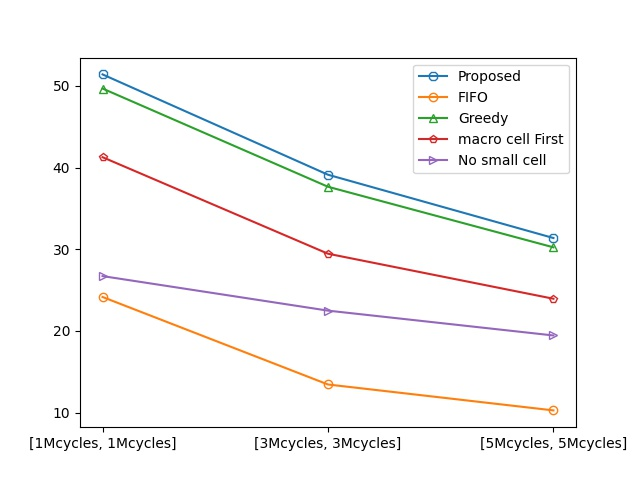
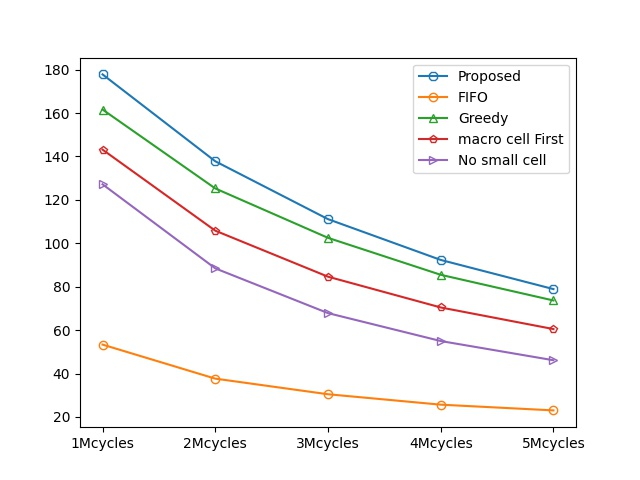
Add multiple small cell

diff --git a/Auction.py b/Auction.py
@@ -7,13 +7,18 @@ def Generate_task():
     macro_cell_lst = []
     small_cell_lst = []
     total = []
-    for _ in range(30):
-        a = macro_cell()
-        b = small_cell()
+    for _ in range(MACRO_CELL_USER):
+        a = macro_cell_user()
         macro_cell_lst.append(a)
-        small_cell_lst.append(b)
         total.append(a)
-        total.append(b)
+        
+    for i in range(SMALL_NUM):
+        small_cell_user_lst = []
+        for _ in range(SMALL_CELL_USER):
+            b = small_cell_user(i)
+            small_cell_user_lst.append(b)
+            total.append(b)
+        small_cell_lst.append(small_cell_user_lst)
     return macro_cell_lst, small_cell_lst, total
 
 
@@ -23,11 +28,14 @@ def Proposed(macro_cell_lst, small_cell_lst, total, macro_cellt, small_cellt):
     total = total.copy()
     winning_macro_cell = []
     winning_small_cell = []
-    for i in range(len(small_cell_lst)):
-        b = (len(winning_small_cell) + 1) * small_cellt + time_to_small_cell
-        if b <= small_cell_lst[i].time:
-            winning_small_cell.append(small_cell_lst[i])
-            total.remove(small_cell_lst[i])
+    for lst in small_cell_lst:
+        cell_count = 0
+        for i in range(len(lst)):
+            b = (cell_count + 1) * small_cellt + time_to_small_cell
+            if b <= lst[i].time:
+                winning_small_cell.append(lst[i])
+                total.remove(lst[i])
+                cell_count += 1
     for i in range(len(total)):
         a = (len(winning_macro_cell) + 1) * macro_cellt + time_to_macro_cell
         if a <= total[i].time:
@@ -38,41 +46,48 @@ def Proposed(macro_cell_lst, small_cell_lst, total, macro_cellt, small_cellt):
 def Greedy(macro_cell_lst, small_cell_lst, total, macro_cellt, small_cellt):
     winning_macro_cell = []
     winning_small_cell = []
+    cell_count = []
+    for i in range(SMALL_NUM):
+        cell_count.append(0)
     macro_cell_lst = macro_cell_lst.copy()
     small_cell_lst = small_cell_lst.copy()
     total = total.copy()
     for i in range(len(total)):
         a = (len(winning_macro_cell) + 1) * macro_cellt + time_to_macro_cell
-        b = (len(winning_small_cell) + 1) * small_cellt + time_to_small_cell
         if total[i].is_macro_cell == 0:
+            b = (cell_count[total[i].cell_num] + 1) * small_cellt + time_to_small_cell
             if a < b and a <= total[i].time:
                 winning_macro_cell.append(total[i])
             elif a >= b and b <= total[i].time:
                 winning_small_cell.append(total[i])
+                cell_count[total[i].cell_num] += 1
         else:
             if a <= total[i].time:
                 winning_macro_cell.append(total[i])
     return winning_macro_cell, winning_small_cell
 
 
-def FIFO(macro_cell_lst, small_cell_lst, total, macro_cellt, small_cellt):
+def Fifo(macro_cell_lst, small_cell_lst, total, macro_cellt, small_cellt):
     winning_macro_cell = []
     winning_small_cell = []
     macro_cell_lst = macro_cell_lst.copy()
     small_cell_lst = small_cell_lst.copy()
     total = total.copy()
-    for i in range(len(small_cell_lst)):
-        b = (len(winning_small_cell) + 1) * small_cellt + time_to_small_cell
-        flag_current = False
-        if b <= small_cell_lst[i].time:
-            flag_current = True
-        flag_lst = True
-        for task in winning_small_cell:
-            if task.time < b:
-                flag_lst = False
-        if flag_current and flag_lst:
-            winning_small_cell.append(small_cell_lst[i])
-            total.remove(small_cell_lst[i])
+    for lst in small_cell_lst:
+        count = 0
+        for i in range(len(lst)):
+            b = (count + 1) * small_cellt + time_to_small_cell
+            flag_current = False
+            if b <= lst[i].time:
+                flag_current = True
+            flag_lst = True
+            for task in winning_small_cell:
+                if task.time < b:
+                    flag_lst = False
+            if flag_current and flag_lst:
+                winning_small_cell.append(lst[i])
+                total.remove(lst[i])
+                count += 1
     for i in range(len(total)):
         a = (len(winning_macro_cell) + 1) * macro_cellt + time_to_macro_cell
         flag_current = False
@@ -98,10 +113,13 @@ def macro_cell_first(macro_cell_lst, small_cell_lst, total, macro_cellt, small_c
         if b <= macro_cell_lst[i].time:
             winning_macro_cell.append(macro_cell_lst[i])
             total.remove(macro_cell_lst[i])
-    for i in range(len(small_cell_lst)):
-        a = (len(winning_small_cell) + 1) * small_cellt + time_to_small_cell
-        if a <= small_cell_lst[i].time:
-            winning_small_cell.append(small_cell_lst[i])
+    for lst in small_cell_lst:
+        count = 0
+        for i in range(len(lst)):
+            a = (count + 1) * small_cellt + time_to_small_cell
+            if a <= lst[i].time:
+                winning_small_cell.append(lst[i])
+                count += 1
     return winning_macro_cell, winning_small_cell
 
 
@@ -109,8 +127,8 @@ def No_small_cell(macro_cell_lst, small_cell_lst, total, macro_cellt, small_cell
     macro_cell_lst = macro_cell_lst.copy()
     total = total.copy()
     winning_macro_cell = []
-    for i in range(len(macro_cell_lst)):
+    for i in range(len(total)):
         b = (len(winning_macro_cell) + 1) * macro_cellt + time_to_macro_cell
-        if b <= macro_cell_lst[i].time:
-            winning_macro_cell.append(macro_cell_lst[i])
+        if b <= total[i].time:
+            winning_macro_cell.append(total[i])
     return winning_macro_cell

diff --git a/main.py b/main.py
@@ -5,9 +5,14 @@ from Auction import *
 import matplotlib.pyplot as plt
 
 DEBUG = 0
+PROPOSED = 1
+FIFO = 1
+GREEDY = 1
+MACRO_FIRST = 1
+NO_SMALL = 1
 if __name__ == "__main__":
-    parameters = [[1e6, 1e6], [3e6, 3e6], [5e6, 5e6]]
-    parameter = ["[1Mcycles, 1Mcycles]", "[3Mcycles, 3Mcycles]", "[5Mcycles, 5Mcycles]"]
+    parameters = [[1e6, 1e6], [2e6, 2e6], [3e6, 3e6], [4e6, 4e6], [5e6, 5e6]]
+    parameter = ["1Mcycles", "2Mcycles", "3Mcycles", "4Mcycles", "5Mcycles"]
     tasks_greedy = []
     tasks_proposed = []
     tasks_FIFO = []
@@ -21,56 +26,65 @@ if __name__ == "__main__":
         sum_no_small_cell = 0
         for j in range(ITER):
             macro_cell_lst, small_cell_lst, total = Generate_task()
-            winning_FIFO_macro_cell, winning_FIFO_small_cell = FIFO(
-                macro_cell_lst,
-                small_cell_lst,
-                total,
-                par[0] / macro_CPU_freq,
-                par[1] / small_CPU_freq,
-            )
+            if FIFO:
+                winning_FIFO_macro_cell, winning_FIFO_small_cell = Fifo(
+                    macro_cell_lst,
+                    small_cell_lst,
+                    total,
+                    par[0] / macro_CPU_freq,
+                    par[1] / small_CPU_freq,
+                )
+                sum_FIFO += len(winning_FIFO_macro_cell)
+                sum_FIFO += len(winning_FIFO_small_cell)
             macro_cell_lst.sort(reverse=True)
-            small_cell_lst.sort(reverse=True)
+            for lst in small_cell_lst:
+                lst.sort(reverse=True)
             total.sort(reverse=True)
-            (
-                winning_macro_cell_first_macro_cell,
-                winning_macro_cell_first_small_cell,
-            ) = macro_cell_first(
-                macro_cell_lst,
-                small_cell_lst,
-                total,
-                par[0] / macro_CPU_freq,
-                par[1] / small_CPU_freq,
-            )
-            winning_greedy_macro_cell, winning_greedy_small_cell = Greedy(
-                macro_cell_lst,
-                small_cell_lst,
-                total,
-                par[0] / macro_CPU_freq,
-                par[1] / small_CPU_freq,
-            )
-            winning_No_small_cell_macro_cell = No_small_cell(
-                macro_cell_lst,
-                small_cell_lst,
-                total,
-                par[0] / macro_CPU_freq,
-                par[1] / small_CPU_freq,
-            )
-            winning_macro_cell, winning_small_cell = Proposed(
-                macro_cell_lst,
-                small_cell_lst,
-                total,
-                par[0] / macro_CPU_freq,
-                par[1] / small_CPU_freq,
-            )
-            sum_FIFO += len(winning_FIFO_macro_cell)
-            sum_FIFO += len(winning_FIFO_small_cell)
-            sum_greedy += len(winning_greedy_macro_cell)
-            sum_greedy += len(winning_greedy_small_cell)
-            sum_proposed += len(winning_macro_cell)
-            sum_proposed += len(winning_small_cell)
-            sum_macro_cell_first += len(winning_macro_cell_first_macro_cell)
-            sum_macro_cell_first += len(winning_macro_cell_first_small_cell)
-            sum_no_small_cell += len(winning_No_small_cell_macro_cell)
+            if MACRO_FIRST:
+                (
+                    winning_macro_cell_first_macro_cell,
+                    winning_macro_cell_first_small_cell,
+                ) = macro_cell_first(
+                    macro_cell_lst,
+                    small_cell_lst,
+                    total,
+                    par[0] / macro_CPU_freq,
+                    par[1] / small_CPU_freq,
+                )
+                sum_macro_cell_first += len(winning_macro_cell_first_macro_cell)
+                sum_macro_cell_first += len(winning_macro_cell_first_small_cell)
+            if GREEDY:
+                winning_greedy_macro_cell, winning_greedy_small_cell = Greedy(
+                    macro_cell_lst,
+                    small_cell_lst,
+                    total,
+                    par[0] / macro_CPU_freq,
+                    par[1] / small_CPU_freq,
+                )
+                sum_greedy += len(winning_greedy_macro_cell)
+                sum_greedy += len(winning_greedy_small_cell)
+            if NO_SMALL:
+                winning_No_small_cell_macro_cell = No_small_cell(
+                    macro_cell_lst,
+                    small_cell_lst,
+                    total,
+                    par[0] / macro_CPU_freq,
+                    par[1] / small_CPU_freq,
+                )
+                sum_no_small_cell += len(winning_No_small_cell_macro_cell)
+                
+            if PROPOSED:
+                winning_macro_cell, winning_small_cell = Proposed(
+                    macro_cell_lst,
+                    small_cell_lst,
+                    total,
+                    par[0] / macro_CPU_freq,
+                    par[1] / small_CPU_freq,
+                )
+                sum_proposed += len(winning_macro_cell)
+                sum_proposed += len(winning_small_cell)
+
+            
             if DEBUG:
                 if j == 0:
                     print(

diff --git a/Small_Cell.py b/Small_Cell.py
@@ -2,17 +2,22 @@ import random
 import sys
 
 
-class small_cell():
-    def __init__(self):
+class small_cell_user():
+    def __init__(self, cell_num):
         self._is_macro_cell = 0
         seedValue = random.randrange(sys.maxsize)
         random.seed(seedValue)
         self._time_in_mili = random.randint(1, 300)
         self._time = self._time_in_mili * 1E-3
+        self._cell_num = cell_num
 
     @property
     def time(self):
         return self._time
+    
+    @property
+    def cell_num(self):
+        return self._cell_num
 
     @property
     def is_macro_cell(self):

diff --git a/Macro_Cell.py b/Macro_Cell.py
@@ -2,7 +2,7 @@ import random
 import sys
 
 
-class macro_cell():
+class macro_cell_user():
     def __init__(self):
         self._is_macro_cell = 1
         seedValue = random.randrange(sys.maxsize)

diff --git a/Const.py b/Const.py
@@ -1,4 +1,7 @@
-ITER = 10000
+ITER = 1000
+SMALL_NUM = 10
+SMALL_CELL_USER = 20
+MACRO_CELL_USER = 30
 time_to_small_cell = 5 * 1E-3
 time_to_macro_cell = 7 * 1E-3
 small_CPU_freq = 1E8
